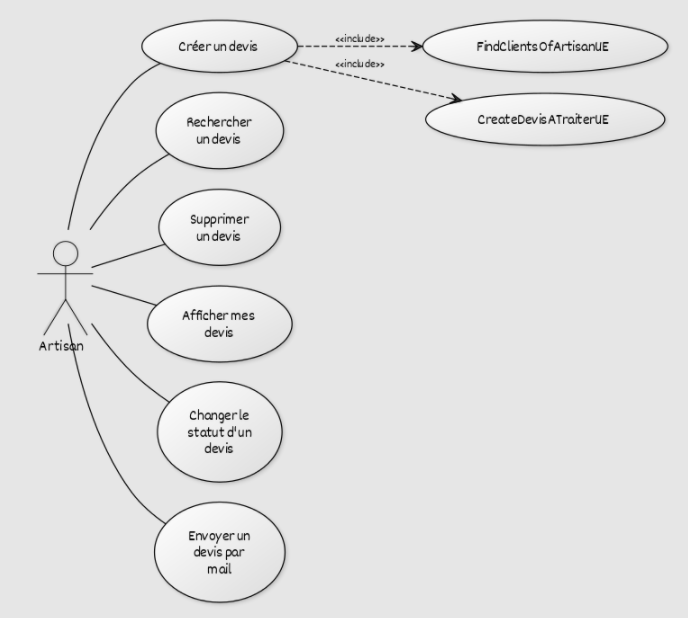
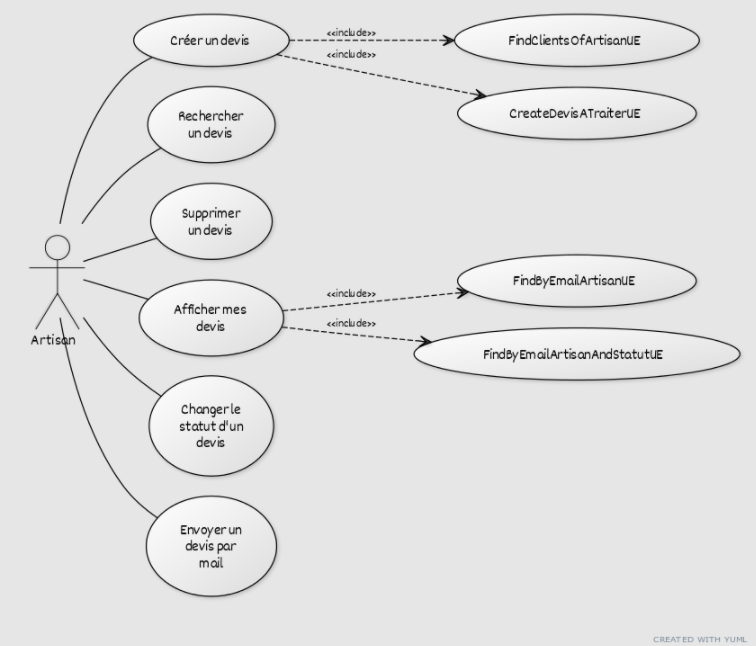
import

diff --git a/back/core/src/test/java/usecases/devis/FindByEmailArtisanAndStatutUETest.java b/back/core/src/test/java/usecases/devis/FindByEmailArtisanAndStatutUETest.java
@@ -1,0 +1,53 @@
+package usecases.devis;
+
+import exceptions.TechnicalException;
+import org.assertj.core.api.Assertions;
+import org.junit.Before;
+import org.junit.Test;
+import org.junit.runner.RunWith;
+import org.mockito.Mock;
+import org.mockito.Mockito;
+import org.mockito.runners.MockitoJUnitRunner;
+import ports.localization.LocalizeServicePT;
+import ports.repositories.devis.DevisRepoPT;
+import ports.transactions.TransactionManagerPT;
+
+import static localizations.MessageKeys.ARG_IS_REQUIRED;
+
+@RunWith(MockitoJUnitRunner.class)
+public class FindByEmailArtisanAndStatutUETest {
+
+    FindByEmailArtisanAndStatutUE usecase;
+
+    @Mock
+    DevisRepoPT devisRepoPT;
+
+    @Mock
+    TransactionManagerPT transactionManager;
+
+    @Mock
+    LocalizeServicePT ls;
+
+    @Before
+    public void setUp() throws Exception {
+
+        usecase = new FindByEmailArtisanAndStatutUE(ls, transactionManager, devisRepoPT);
+    }
+
+    @Test
+    public void args_should_not_be_null(){
+
+        final String errMsg1 = "L'argument email artisan est obligatoire.";
+        final String errMsg2 = "L'argument statut devis est obligatoire.";
+
+        Mockito.when(this.ls.getMsg(ARG_IS_REQUIRED,"email artisan"))
+                .thenReturn(errMsg1);
+
+        Mockito.when(this.ls.getMsg(ARG_IS_REQUIRED,"statut devis"))
+                .thenReturn(errMsg2);
+
+        Assertions.assertThatCode(() -> this.usecase.execute(null, null, null))
+                .isInstanceOf(TechnicalException.class)
+                .hasMessageContaining(errMsg1);
+    }
+}

diff --git a/back/core/src/main/java/usecases/devis/FindByEmailArtisanAndStatutUE.java b/back/core/src/main/java/usecases/devis/FindByEmailArtisanAndStatutUE.java
@@ -1,0 +1,38 @@
+package usecases.devis;
+
+import aop.Transactional;
+import domains.devis.DevisDN;
+import enums.STATUT_DEVIS;
+import exceptions.CleanException;
+import models.Precondition;
+import ports.localization.LocalizeServicePT;
+import ports.repositories.devis.DevisRepoPT;
+import ports.transactions.TransactionManagerPT;
+import transactions.DataProviderManager;
+import usecases.AbstractUsecase;
+
+import java.util.List;
+import java.util.Objects;
+
+import static localizations.MessageKeys.ARG_IS_REQUIRED;
+
+public class FindByEmailArtisanAndStatutUE extends AbstractUsecase {
+
+    DevisRepoPT devisRepo;
+
+    public FindByEmailArtisanAndStatutUE(LocalizeServicePT ls, TransactionManagerPT transactionManager, DevisRepoPT devisRepo) {
+        super(ls, transactionManager);
+        this.devisRepo = devisRepo;
+    }
+
+    @Transactional
+    public List<DevisDN> execute(DataProviderManager dpm, String emailArtisan, STATUT_DEVIS statutDevis) throws CleanException {
+
+        Precondition.validate(
+                Precondition.init(ls.getMsg(ARG_IS_REQUIRED, "email artisan"), Objects.nonNull(emailArtisan)),
+                Precondition.init(ls.getMsg(ARG_IS_REQUIRED, "statut devis"), Objects.nonNull(statutDevis))
+        );
+
+        return devisRepo.findByEmailArtisanAndStatut(dpm,emailArtisan,statutDevis);
+    }
+}

diff --git a/back/adapters/secondaries/dataproviderjpa/src/main/java/org/rlsv/adapters/secondaries/dataproviderjpa/repositories/devis/DevisRepoJpa.java b/back/adapters/secondaries/dataproviderjpa/src/main/java/org/rlsv/adapters/secondaries/dataproviderjpa/repositories/devis/DevisRepoJpa.java
@@ -113,4 +113,23 @@ public class DevisRepoJpa extends RepoJpa implements DevisRepoPT {
 
 
     }
+
+    @Override
+    public List<DevisDN> findByEmailArtisanAndStatut(DataProviderManager dpm, String emailArtisan, STATUT_DEVIS statutDevis) {
+
+        EntityManager em = PersistenceUtils.getEntityManager(dpm);
+
+        TypedQuery<DevisDN> query = em.createQuery("SELECT d from Devis d " +
+                " join d.artisan a " +
+                " join a.personne p " +
+                " where p.email=:emailArtisan " +
+                " and d.statut=:statutDevis ", DevisDN.class);
+        query.setParameter("emailArtisan", emailArtisan);
+        query.setParameter("statutDevis", statutDevis);
+
+        List<Devis> devisList = PersistenceUtils.getResultList(query);
+
+        return DevisMapper.INSTANCE.entitiesToDomains(devisList);
+
+    }
 }

diff --git a/back/core/src/main/java/ports/repositories/devis/DevisRepoPT.java b/back/core/src/main/java/ports/repositories/devis/DevisRepoPT.java
@@ -19,4 +19,6 @@ public interface DevisRepoPT extends RepoPT {
     DevisDN changeStatus(DataProviderManager dpm, String idDevis, STATUT_DEVIS statutDevis);
 
     Long countByEmailArtisanAndStatutDevis(DataProviderManager dpm, String emailArtisan, STATUT_DEVIS statutDevis);
+
+    List<DevisDN> findByEmailArtisanAndStatut(DataProviderManager dpm, String emailArtisan, STATUT_DEVIS statutDevis);
 }
